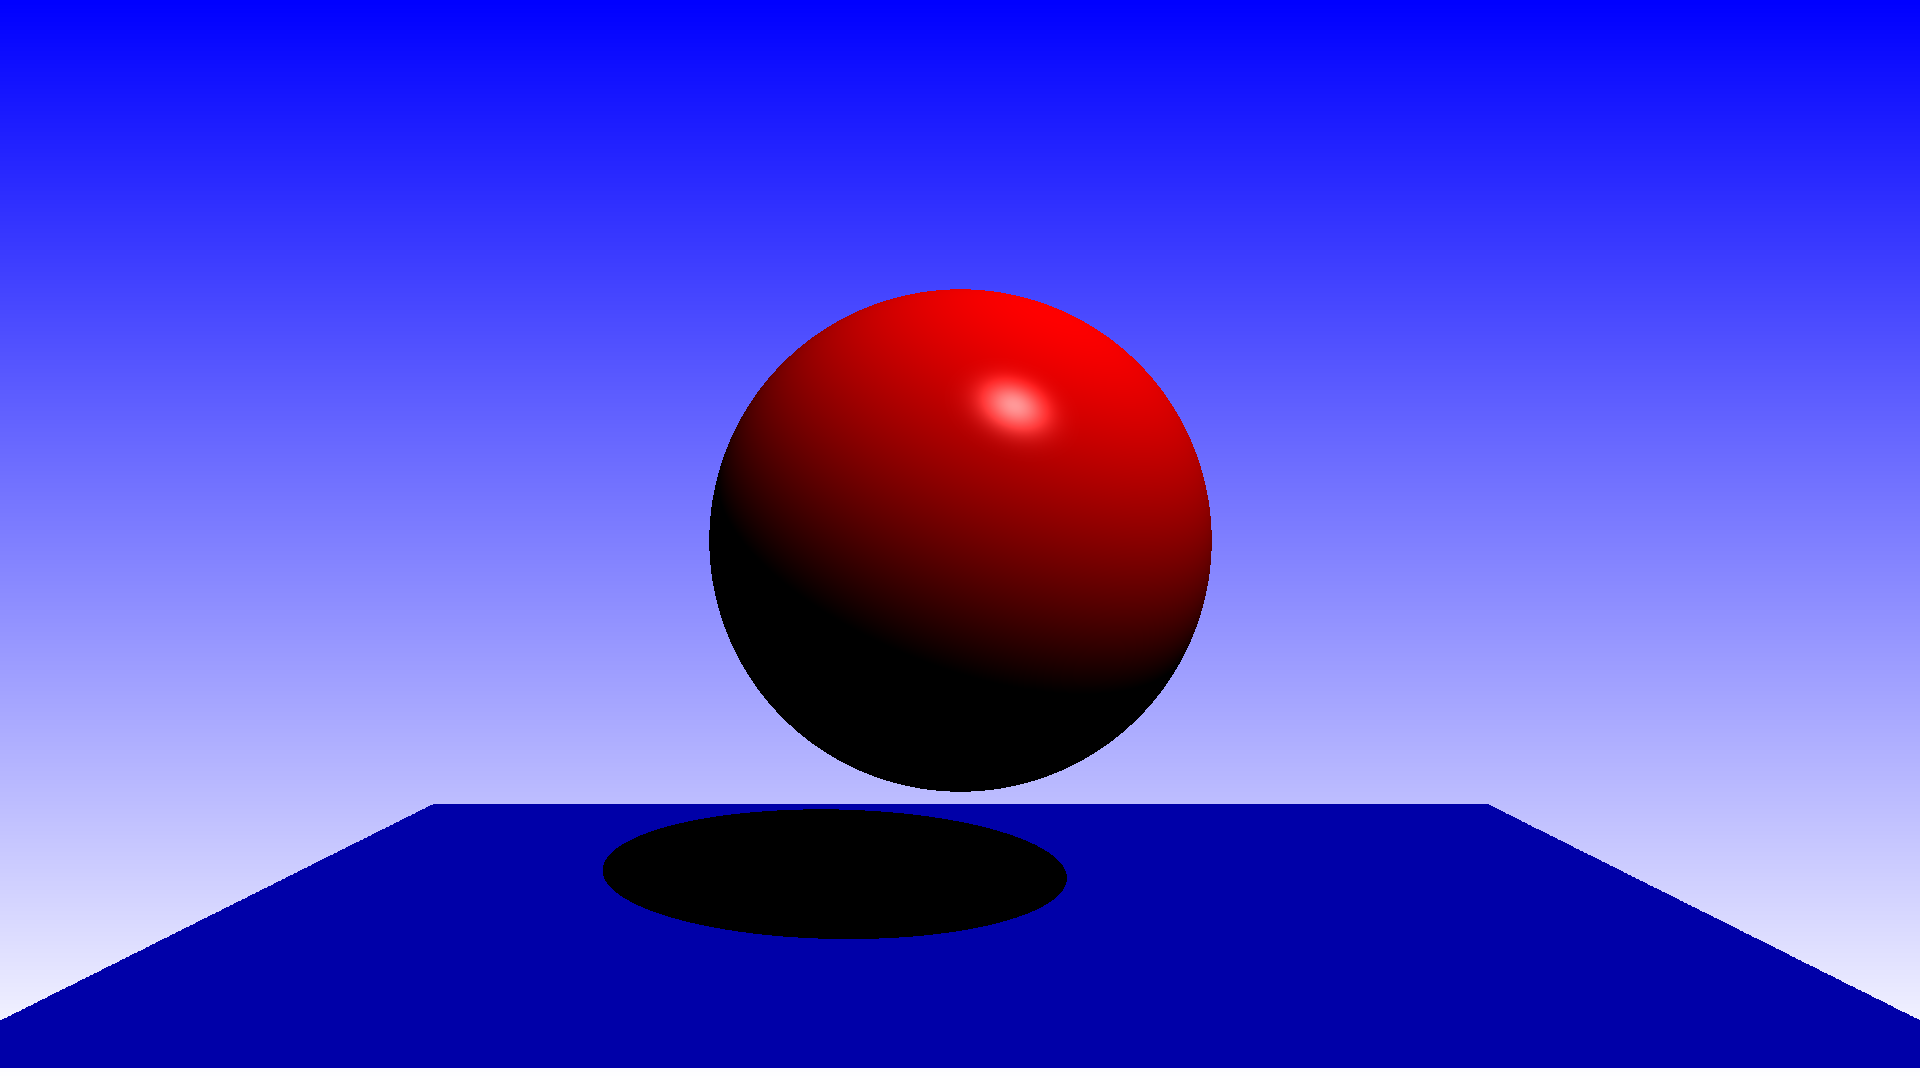
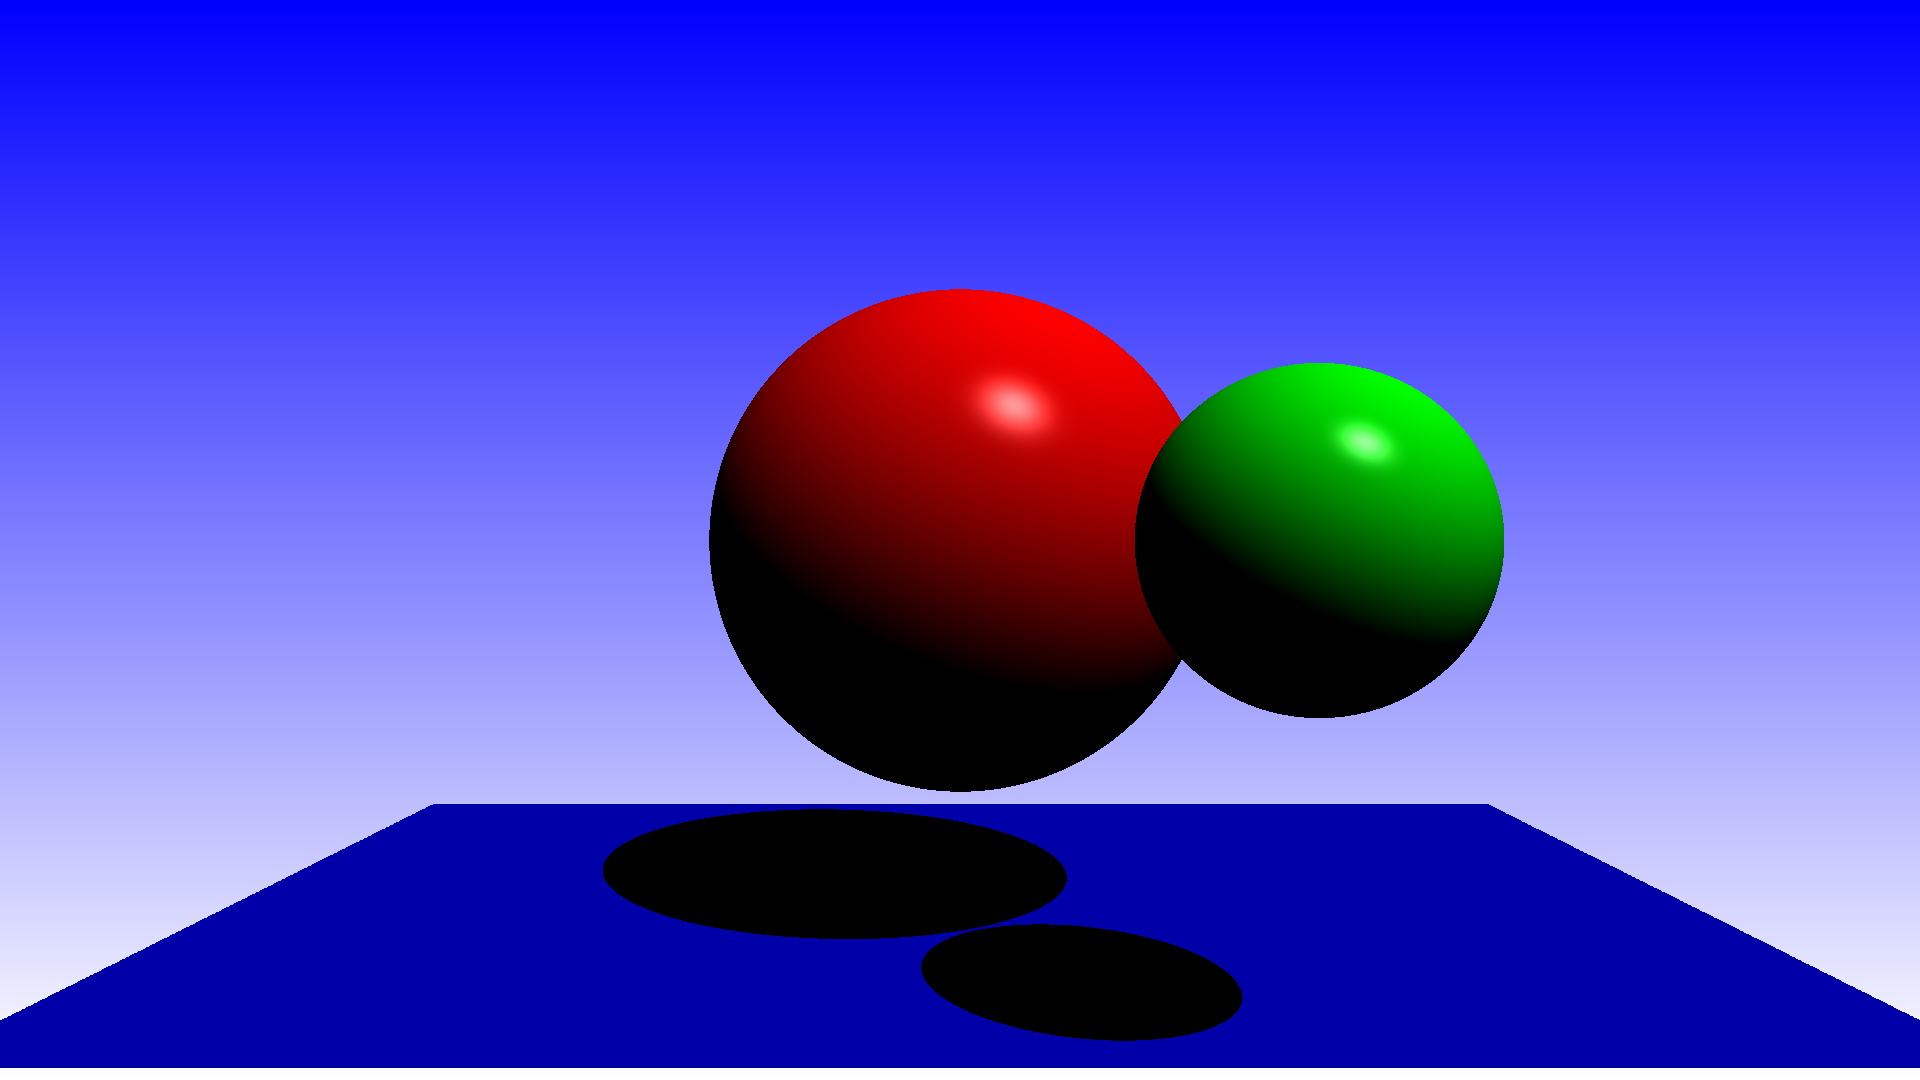
Fixed bug causing objects to incorrectly occlude closer objects.

Changed region(s): [[0.5938, 0.3361, 0.7812, 0.6722], [0.4688, 0.8556, 0.6562, 0.9778]]

diff --git a/Ray Tracer/Ray Tracer.cpp b/Ray Tracer/Ray Tracer.cpp
@@ -15,7 +15,7 @@ int main()
 	RayTracer rayTracer = RayTracer(filename, width, height);
 
     cout << "Printing Image" << endl;
-    rayTracer.GetImage(image, width, height);
+    rayTracer.GetImage(image);
 
     cout << "Writing to File" << endl;
     unsigned error = lodepng::encode(filename, image, width, height);
@@ -30,11 +30,19 @@ int main()
 
 //TODO: Modify function to read from a file instead
 void RayTracer::CreateObjects() {
+
     //Create Sphere
     Sphere* sphere = new Sphere();
     sphere->center = Vec3(0, 0, -1);
     sphere->radius = 0.2;
     sphere->SetColor(Vec3(255, 0, 0));
+    objects.push_back(sphere);
+
+    //Create Sphere
+    sphere = new Sphere();
+    sphere->center = Vec3(0.2, 0, -0.7);
+    sphere->radius = 0.1;
+    sphere->SetColor(Vec3(0, 255, 0));
     objects.push_back(sphere);
 
     //Create floor
@@ -45,30 +53,30 @@ void RayTracer::CreateObjects() {
 
     Vec3 color(0, 0, 200);
 
-    Triangle* triangle1 = new Triangle();
+    Triangle* triangle = new Triangle();
 
-    triangle1->A = v1;
-    triangle1->B = v2;
-    triangle1->C = v3;
+    triangle->A = v1;
+    triangle->B = v2;
+    triangle->C = v3;
 
-    triangle1->SetColor(color);
+    triangle->SetColor(color);
 
-    objects.push_back(triangle1);
+    objects.push_back(triangle);
 
-    Triangle* triangle2 = new Triangle();
+    triangle = new Triangle();
 
-    triangle2->A = v2;
-    triangle2->B = v4;
-    triangle2->C = v3;
+    triangle->A = v2;
+    triangle->B = v4;
+    triangle->C = v3;
 
-    triangle2->SetColor(color);
+    triangle->SetColor(color);
 
-    objects.push_back(triangle2);
+    objects.push_back(triangle);
 
 
 }
 
-void RayTracer::GetImage(vector<unsigned char>& image, const int width, const int height) 
+void RayTracer::GetImage(vector<unsigned char>& image) 
 {
     for (int h = 0; h < height; h++) {
         
@@ -105,56 +113,70 @@ Vec3 RayTracer::GetColor(const float i, const float j)
 
     Ray ray(origin, magnitude);
 
-    Ray normal;
+	float t = numeric_limits<float>::max();
+
+	Object* hitObject = nullptr;
+	Ray hitNormal;
+
+	//Find closest object
 
     for (Object* object : objects) {
 
+        Ray normal;
 
-        if (object->hit(ray, normal)) {
+		float hitT = object->hit(ray, normal);
 
+        if (hitT > 0 && hitT < t) {
 
-            Material material = object->material;
-
-            //Check if in shadow
-            Ray shadowRay = Ray();
-
-            shadowRay.direction = -1 * sun.direction;
-            shadowRay.origin = normal.origin + normal.direction * numeric_limits<float>::epsilon();
-
-            Ray norm;
-
-            for (auto object : objects) {
-                if (object->hit(shadowRay, norm)) return Vec3();
-            }
-
-            //Calculate diffuse
-            float dotProduct = dot(-1 * sun.direction, normal.direction);
-            float brightness = max(0.0f, dotProduct);
-
-            //Calculate specular
-            Vec3 V = ray.direction.normalize();
-
-            Vec3 R = 2 * dot(normal.direction, sun.direction) * normal.direction - sun.direction;
-
-            float specular = max(0.0f, dot(R, V));
-
-
-            specular = pow(specular, material.s);
-
-
-            //Calculate color
-            Vec3 color = material.kd * material.color * brightness
-                + material.ks * specular * material.specularColor;
-
-            color.x = min(1.0f, color.x);
-
-            color.y = min(1.0f, color.y);
-
-            color.z = min(1.0f, color.z);
-
-
-            return color;
+			hitObject = object;
+			hitNormal = normal;
+			t = hitT;
         }
+    }
+
+	//Get color from closest object
+    if (hitObject != nullptr) {
+        Material material = hitObject->material;
+
+        //Check if in shadow
+        Ray shadowRay = Ray();
+
+        shadowRay.direction = -1 * sun.direction;
+        shadowRay.origin = hitNormal.origin + hitNormal.direction * numeric_limits<float>::epsilon();
+
+        Ray norm;
+
+        for (auto object : objects) {
+            if (object->hit(shadowRay, norm)) return Vec3();
+        }
+
+        //Calculate diffuse
+        float dotProduct = dot(-1 * sun.direction, hitNormal.direction);
+        float brightness = max(0.0f, dotProduct);
+
+        //Calculate specular
+        Vec3 V = ray.direction.normalize();
+
+        Vec3 R = 2 * dot(hitNormal.direction, sun.direction) * hitNormal.direction - sun.direction;
+
+        float specular = max(0.0f, dot(R, V));
+
+
+        specular = pow(specular, material.s);
+
+
+        //Calculate color
+        Vec3 color = material.kd * material.color * brightness
+            + material.ks * specular * material.specularColor;
+
+        color.x = min(1.0f, color.x);
+
+        color.y = min(1.0f, color.y);
+
+        color.z = min(1.0f, color.z);
+
+
+        return color;
     }
 
     //Gradient from blue to white

diff --git a/Ray Tracer/Object.cpp b/Ray Tracer/Object.cpp
@@ -1,6 +1,6 @@
 #include "Object.h"
 
-bool Sphere::hit(const Ray& ray, Ray& normal) const {
+float Sphere::hit(const Ray& ray, Ray& normal) const {
 	Vec3 OC = ray.origin - center;
 	double a = dot(ray.direction, ray.direction);
 	double b = 2 * dot(ray.direction, OC);
@@ -25,11 +25,11 @@ bool Sphere::hit(const Ray& ray, Ray& normal) const {
 	normal.direction = Nhit.normalize();
 
 
-	return true;
+	return t;
 }
 
 
-bool Triangle::hit(const Ray& ray, Ray& normal) const {
+float Triangle::hit(const Ray& ray, Ray& normal) const {
 
 	
 	Vec3 N = cross(B - A, C - A).normalize();
@@ -52,7 +52,7 @@ bool Triangle::hit(const Ray& ray, Ray& normal) const {
 	normal.origin = P;
 	normal.direction = -1 * N;
 
-	return true;
+	return t;
 
 	
 }

diff --git a/Ray Tracer/Object.h b/Ray Tracer/Object.h
@@ -10,7 +10,7 @@ class Object
 {
 public:
 
-	virtual bool hit(const Ray& ray, Ray& normal) const {
+	virtual float hit(const Ray& ray, Ray& normal) const {
 		return false; 
 	}
 
@@ -30,7 +30,7 @@ public:
 		material = Material();
 	}
 
-	bool hit(const Ray& ray, Ray& normal) const;
+	float hit(const Ray& ray, Ray& normal) const;
 
 	float radius;
 	Vec3 center;
@@ -45,7 +45,7 @@ public:
 
 	Triangle(Vec3 a, Vec3 b, Vec3 c) : A(a), B(b), C(c) {}
 
-	bool hit(const Ray& ray, Ray& normal) const;
+	float hit(const Ray& ray, Ray& normal) const;
 
 	Vec3 A;
 	Vec3 B;

diff --git a/Ray Tracer/Ray Tracer.h b/Ray Tracer/Ray Tracer.h
@@ -39,11 +39,11 @@ public:
 		}
 	}
 
-	void GetImage(vector<unsigned char>& image, const int width, const int height);
+	void GetImage(vector<unsigned char>& image);
 
 	void CreateObjects();
 
-	Vec3 GetColor(const float i, const float j);
+	
 
 	Camera camera;
 	vector<Object*> objects;
@@ -52,4 +52,7 @@ public:
 
 	int width;
 	int height;
+
+private:
+	Vec3 GetColor(const float i, const float j);
 };
